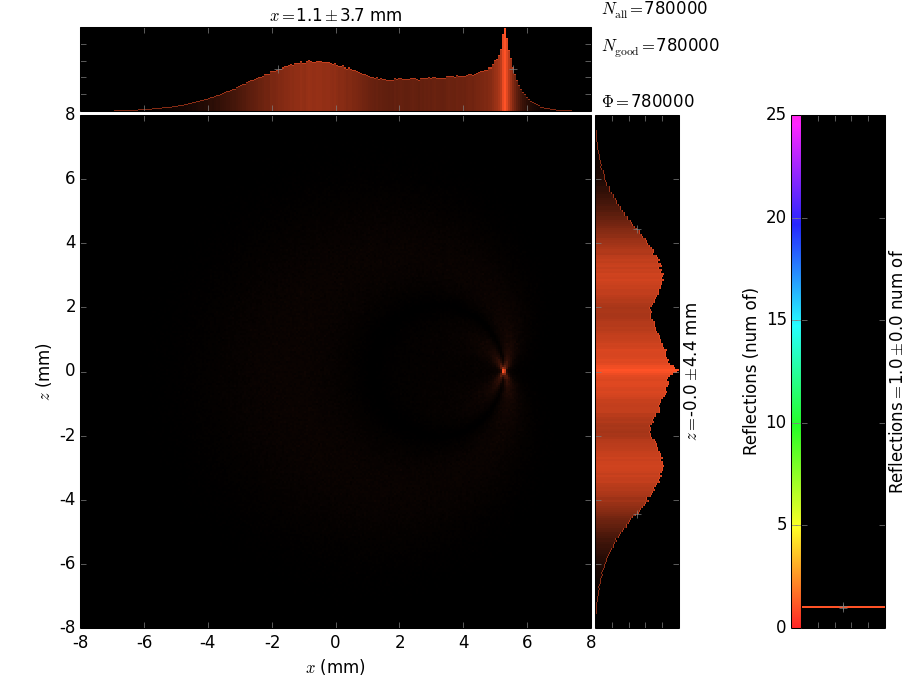
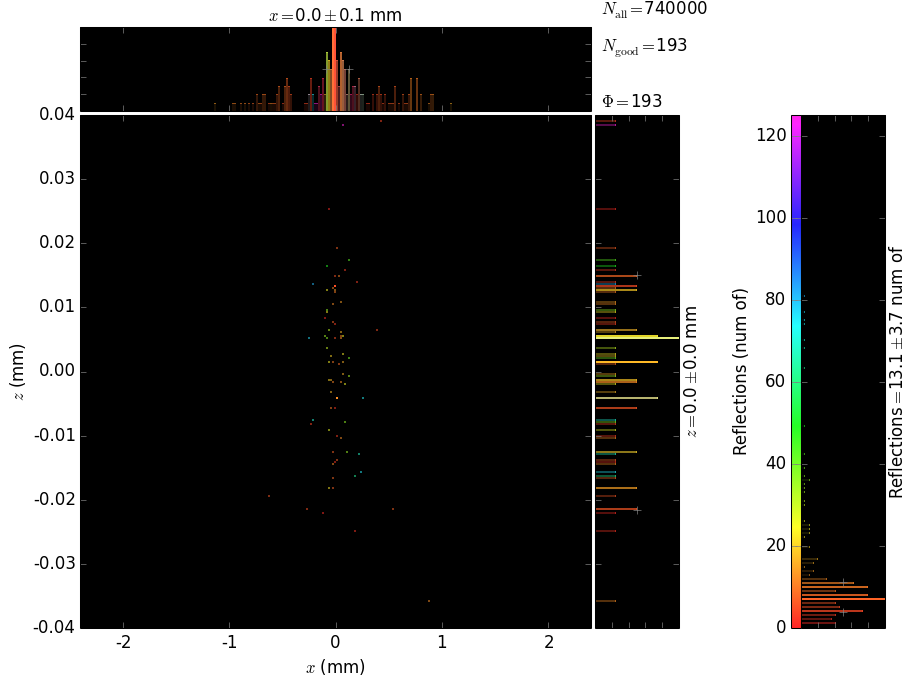
This is wrong on puprpose

diff --git a/realisticPolycapillary.py b/realisticPolycapillary.py
@@ -23,7 +23,7 @@ from LensPolynomial import getPolyCoeffs
 mGlass  = rm.Material(('Si', 'O'), quantities=(1, 2), rho=2.2)
 repeats = 5e4           # number of ray traycing iterations
 E0      = 9000.         # energy in electronoVolts
-nRefl   = 25            # number of reflections
+nRefl   = 125           # number of reflections
 
 # Constant capillary/setup parameters [mm]
 y0 =    0.      # relative light source position
@@ -49,7 +49,7 @@ dzprime     = 0.1
 
 class BentCapillary(roe.OE):
     def __init__(self, *args, **kwargs):
-        self.y1 = kwargs.pop("y1")
+        self.y2 = kwargs.pop("y2")
         self.p  = kwargs.pop("curveCoeffs")
         self.rIn    = kwargs.pop("rIn")
         roe.OE.__init__(self, *args, **kwargs)
@@ -83,14 +83,14 @@ class BentCapillary(roe.OE):
         *s* is along y in inverse direction, started at the exit,
         *r* is measured from the capillary axis x0(s)
         *phi* is the polar angle measured from the z (vertical) direction."""
-        s = self.y1 + y
+        s = self.y2 - y
         phi = np.arctan2(x - self.local_x0(s), z)
         r = np.sqrt((x-self.local_x0(s))**2 + z**2)
         return s, phi, r
 
     def param_to_xyz(self, s, phi, r):
         x = self.local_x0(s) + r*np.sin(phi)
-        y = self.y1 + s
+        y = self.y2 - s
         z = r * np.cos(phi)
         return x, y, z
 
@@ -115,12 +115,12 @@ def build_beamline(nrays=1e4):
 
     beamLine.capillaries = []
     for h_it in range(-10,11):
-        h_in = h_it * hMax/20.
+        h_in = h_it * hMax/40.
         roll = 0.
         p = getPolyCoeffs(y0,y1,ym,y2,yf,h_in,Din,Dout,hMax)
         capillary = BentCapillary(beamLine, 'BentCapillary', [0,0,0],
                 roll=roll, limPhysY=[y1, y2], order=8,
-                rIn=rin, curveCoeffs=p, y1=y1)
+                rIn=rin, curveCoeffs=p, y2=y2)
         capillary.h_in = h_in
         beamLine.capillaries.append(capillary)
 
@@ -171,8 +171,8 @@ def main():
     """
     Lens Exit Screen
     """
-    xLimits = [-2*hMax, 2*hMax]
-    zLimits = xLimits
+    xLimits = [-Dout, Dout]
+    zLimits = [-2*rin, 2*rin] 
     plot = xrtp.XYCPlot('ExitScreen', (1,),
         xaxis=xrtp.XYCAxis(r"$x$", 'mm', data=raycing.get_x, bins=256, ppb=2, limits=xLimits),
         yaxis=xrtp.XYCAxis(r"$z$", 'mm', data=raycing.get_z, bins=256, ppb=2, limits=zLimits),

diff --git a/simplfiedMonoCapillary.py b/simplfiedMonoCapillary.py
@@ -90,7 +90,6 @@ class StraightCapillary(roe.OE):
     def local_x0(self, s):  # axis of capillary, x(s)
         # s*0 is needed for this method to act as a function rather than variable?
         return -a_*np.cosh((s-L_/2.0)/a_) +  a_*np.cosh(L_/2.0/a_) + y_in
-        
 
     def local_x0Prime(self, s):
         return -np.sinh((s-L_/2.0)/a_)
